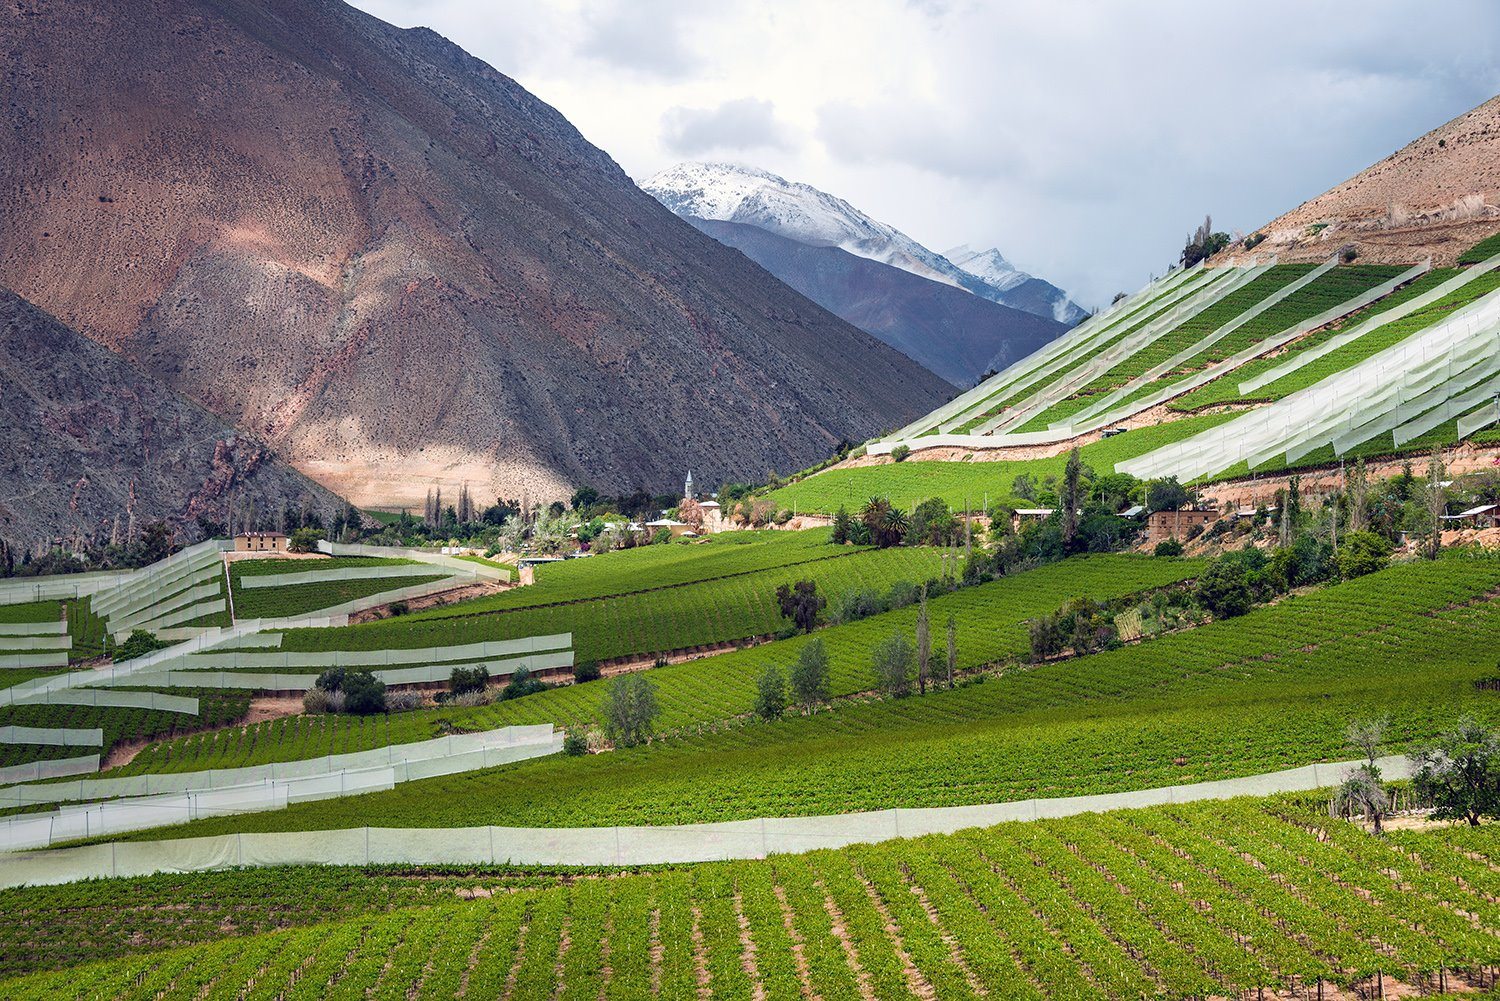
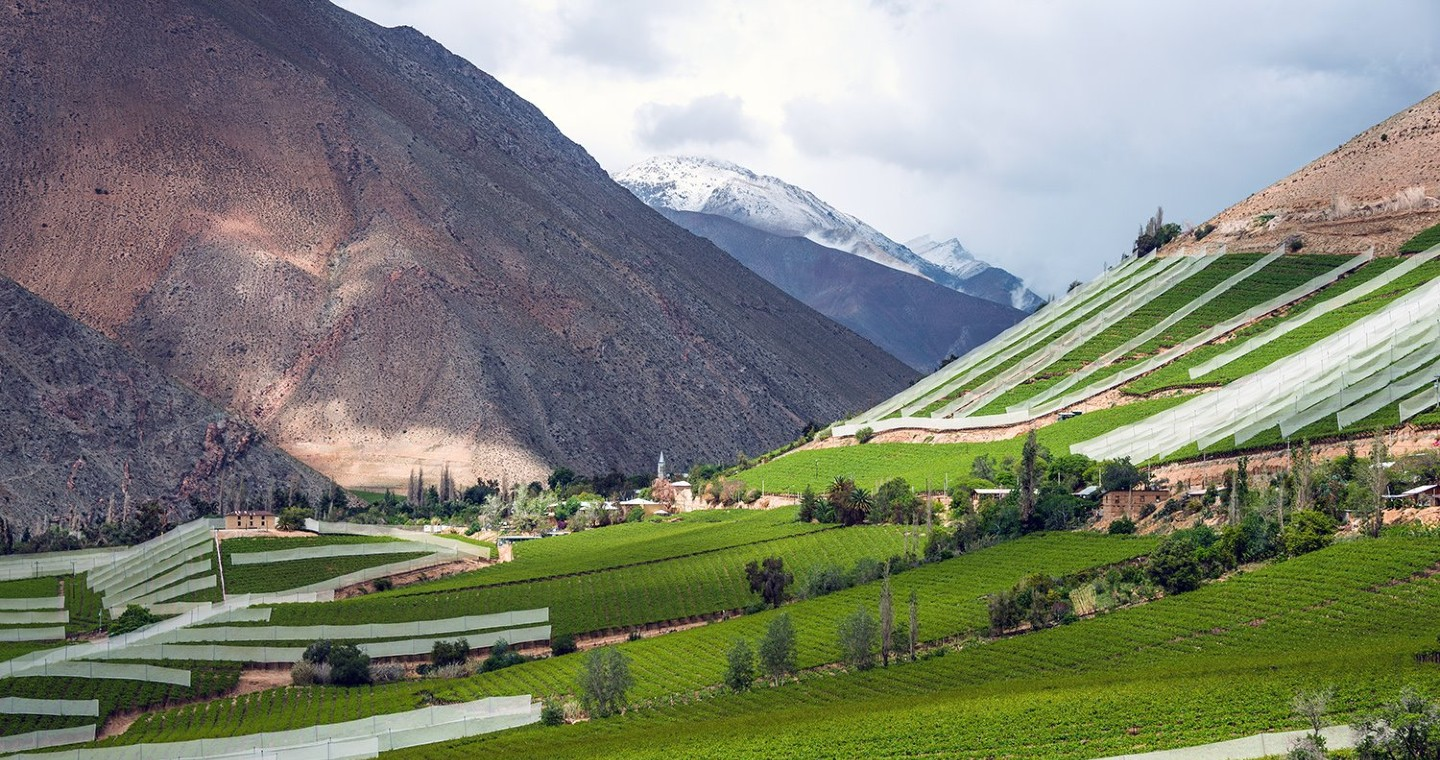
last commit

diff --git a/index.html b/index.html
@@ -9,14 +9,15 @@
     <link rel="stylesheet" href="https://stackpath.bootstrapcdn.com/bootstrap/4.5.2/css/bootstrap.min.css" integrity="sha384-JcKb8q3iqJ61gNV9KGb8thSsNjpSL0n8PARn9HuZOnIxN0hoP+VmmDGMN5t9UJ0Z" crossorigin="anonymous">
     <!-- LIBRERIA FONTAWESOME-->
     <script src="https://kit.fontawesome.com/af2ac33e66.js" crossorigin="anonymous"></script>
-    <!-- google fonts-->
+    <!-- google fonts ROBOTO-->
     <link rel="preconnect" href="https://fonts.gstatic.com">
-    <link href="https://fonts.googleapis.com/css2?family=Baloo+Tammudu+2:wght@400;600&display=swap" rel="stylesheet">
+    <link href="https://fonts.googleapis.com/css2?family=Roboto:wght@100;400&display=swap" rel="stylesheet">
     <!-- Style css -->
     <link rel="stylesheet" href="assets/css/style.css">
+    <!-- Favicon -->
+    <link rel="icon" href="assets/img/logo.png" type="image/png">
 
-
-    <title>Document</title>
+    <title>Viajes Chile</title>
 </head>
 
 <body>
@@ -30,29 +31,26 @@
             <div class="collapse navbar-collapse" id="navbarNav">
                 <ul class="navbar-nav ml-auto">
                     <li class="nav-item active">
-                        <a class="nav-link" href="#top">Inicio <span class="sr-only">(current)</span></a>
+                        <a class="nav-link carouse-row" href="#top">Inicio <span class="sr-only">(current)</span></a>
                     </li>
                     <li class="nav-item">
-                        <a class="nav-link" href="#about-us">Quienes Somos</a>
+                        <a class="nav-link carouse-row" href="#about-us">Quienes Somos</a>
                     </li>
                     <li class="nav-item">
-                        <a class="nav-link" href="#high-lights">Destacados</a>
+                        <a class="nav-link carouse-row" href="#high-lights">Destacados</a>
                     </li>
                     <li class="nav-item">
-                        <a class="nav-link" href="#contact_us">Contacto</a>
+                        <a class="nav-link carouse-row" href="#contact_us">Contacto</a>
                     </li>
 
                 </ul>
             </div>
         </div>
     </nav>
-
-
     <!--HEADER-->
-
-    <header id="top" class="container-fluid p-0 ">
+    <header id="top" class="container-fluid p-0 carousel-images ">
         <div id="carouselExampleControls" class="carousel slide" data-ride="carousel">
-            <div class="carousel-inner carousel-images">
+            <div class="carousel-inner ">
                 <div class="carousel-item w-100 active">
                     <img src="assets/img/img-1.jpg" class="d-block w-100" alt="...">
                 </div>
@@ -81,12 +79,9 @@
                 <span class="sr-only">Next</span>
             </a>
         </div>
-
     </header>
-
     <!--QUIENES SOMOS-->
-
-    <section id="about-us" class="container mt-5">
+    <section id="about-us" class="container mt-5 d-none d-md-none d-sm-none d-lg-block">
         <div class="row">
             <div class="col-12 border-bottom border-info mb-5">
                 <h1 class="text-center mb-3">¿Quiénes somos?</h1>
@@ -97,8 +92,6 @@
                 <div class="card border-0">
                     <div class="card-header bg-info text-center">
                         <i class="fas fa-plane fa-2x d-inline-block" tabindex="0" data-bs-toggle="tooltip" title="Disabled tooltip"></i>
-
-
                     </div>
                     <div class="card-body bg-black ">
                         <p class="card-text ">Lorem ipsum dolor sit amet consectetur adipisicing elit. Dolore at quasi incidunt quidem alias a aliquid. Nisi ad incidunt, modi quisquam ab ullam accusamus recusandae neque soluta suscipit facilis temporibus aut corporis doloribus,
@@ -129,118 +122,87 @@
                 </div>
             </div>
         </div>
-
-
     </section>
-
     <!--DESTACADOS  -->
-
     <section id="high-lights" class="container mt-5 mb-5 ">
         <div class="row ">
-            <div class="col-12 border-bottom border-info mb-5 ">
+            <div class="col-12  border-bottom border-info mb-5 ">
                 <h1 class="text-center mb-3 ">Destacados</h1>
             </div>
         </div>
-        <div class="card-deck ">
-            <div class="card bg-info ">
-                <img src="assets/img/card-img-1.jpg " alt=" ">
-                <div class="card-body ">
-                    <h5 class="card-text ">Lorem ipsum dolor sit amet.</h5>
-                    <p>Lorem, ipsum dolor sit amet consectetur adipisicing elit. Possimus earum voluptatibus saepe nihil porro soluta aperiam consectetur at sapiente, ullam nemo recusandae adipisci alias similique natus ab? Accusamus, culpa exercitationem?</p>
+        <div class="row">
+            <div class="card-deck">
+                <div class="card bg-info border-white">
+                    <img class="card-img-top" data-toggle="tooltip" data-placemente="top" title="Isla de Pascua" src="assets/img/card-img-1.jpg" alt="Card image cap">
+                    <div class="card-body">
+                        <h5 class="card-title">Lorem ipsum dolor sit amet.</h5>
+                        <p class="card-text">Lorem ipsum dolor sit amet consectetur adipisicing elit. Dolorum assumenda tempore quod modi aspernatur nam quaerat provident similique ipsam nesciunt.</p>
+                    </div>
                 </div>
-            </div>
-            <div class="card bg-info ">
-                <img src="assets/img/card-img-2.jpg " alt=" ">
-                <div class="card-body ">
-                    <h5 class="card-text ">Lorem ipsum dolor sit amet.</h5>
-                    <p>Lorem ipsum, dolor sit amet consectetur adipisicing elit. Sint laudantium nam ratione accusantium ad possimus, aliquam tenetur! Quis tempore vero inventore sed, animi veritatis sunt odio eveniet omnis unde ratione.</p>
+                <div class="card bg-info border-white">
+                    <img class="card-img-top" data-toggle="tooltip" data-placemente="top" title="Zona Austral de Chile" src="assets/img/card-img-2.jpg" alt="Card image cap">
+                    <div class="card-body">
+                        <h5 class="card-title">Lorem ipsum dolor sit amet.</h5>
+                        <p class="card-text">Lorem ipsum dolor sit amet consectetur, adipisicing elit. Maiores corrupti voluptatem quam, necessitatibus laudantium rerum ratione iusto autem porro cupiditate repellendus aliquid! Alias, aspernatur cupiditate.</p>
+                    </div>
                 </div>
-            </div>
-            <div class="card bg-info ">
-                <img src="assets/img/card-img-3.jpg " alt=" ">
-                <div class="card-body ">
-                    <h5 class="card-text ">Lorem ipsum dolor sit amet consectetur adipisicing elit. Maxime, voluptatum?.</h5>
-                    <p>Lorem ipsum dolor sit amet consectetur adipisicing elit. Nulla, accusamus voluptatem voluptate error eum exercitationem facere labore mollitia corporis ipsa, itaque cumque reiciendis, quae quis nihil voluptatum dignissimos nesciunt
-                        expedita.
-                    </p>
+                <div class="card bg-info border-white">
+                    <img class="card-img-top" data-toggle="tooltip" data-placemente="top" title="Torres del Paine" src="assets/img/card-img-3.jpg" alt="Card image cap">
+                    <div class="card-body">
+                        <h5 class="card-title">Lorem ipsum dolor sit amet consectetur adipisicing elit.</h5>
+                        <p class="card-text">Lorem ipsum dolor, sit amet consectetur adipisicing elit. Eos ratione nihil cumque tempora sapiente, architecto doloremque asperiores at nostrum mollitia sunt necessitatibus ipsa pariatur dolor quos nemo dignissimos dicta sequi?
+                        </p>
+                    </div>
                 </div>
-            </div>
-            <div class="card bg-info ">
-                <img src="assets/img/card-img-4.jpg " alt=" ">
-                <div class="card-body ">
-                    <h5 class="card-text ">Lorem ipsum dolor sit amet.</h5>
-                    <p>Lorem ipsum dolor sit amet consectetur adipisicing elit. Officia natus fugit omnis, exercitationem cum consequatur, adipisci reiciendis incidunt, mollitia possimus cupiditate necessitatibus inventore iure. Veniam accusamus vero ipsam
-                        a exercitationem!</p>
+                <div class="card bg-info border-white">
+                    <img class="card-img-top" data-toggle="tooltip" data-placemente="top" title="Desierto de Atacama" src="assets/img/card-img-4.jpg" alt="Card image cap">
+                    <div class="card-body">
+                        <h5 class="card-title">Lorem ipsum dolor sit amet.</h5>
+                        <p class="card-text">Lorem ipsum dolor sit amet consectetur, adipisicing elit. Cum maxime sunt sequi illo. Molestias reprehenderit libero voluptate eius omnis laboriosam.</p>
+                    </div>
                 </div>
-            </div>
 
-
-
+            </div>
         </div>
-
-
+        </div>
     </section>
-
     <!--CONTACTO-->
-
-    <section id="contact_us" class="container mt-5 mb-5 ">
-        <div class="row ">
-            <div class="col-12 border-bottom border-info mb-5 ">
-                <h1 class="text-center mb-3 ">Contacto</h1>
+    <section id="contact_us" class="container my-5">
+        <div class="row">
+            <div class="col-12 border-bottom border-info my-5">
+                <h1 class="text-center">Contacto</h1>
             </div>
         </div>
-        <div class="typeform-widget" data-url="https://form.typeform.com/to/XLaLWSJD?typeform-medium=embed-snippet" data-hide-headers="true" data-hide-footer="true" style="width: 100%; height: 500px;"></div>
-        <script>
-            (function() {
-                var qs, js, q, s, d = document,
-                    gi = d.getElementById,
-                    ce = d.createElement,
-                    gt = d.getElementsByTagName,
-                    id = "typef_orm",
-                    b = "https://embed.typeform.com/";
-                if (!gi.call(d, id)) {
-                    js = ce.call(d, "script");
-                    js.id = id;
-                    js.src = b + "embed.js";
-                    q = gt.call(d, "script")[0];
-                    q.parentNode.insertBefore(js, q)
-                }
-            })()
-        </script>
+        <div class="typeform-widget" data-url="https://form.typeform.com/to/XLaLWSJD?typeform-medium=embed-snippet" data-hide-headers="true" data-hide-footer="true" style="width: 100%; height: 500px;">
+        </div>
     </section>
-
     <!--FOOTER-->
-    <footer class="container-fluid py-3 text-center ">
-        <div class="row ">
-            <div class="col-6 ">
-                <h2>VIAJES CHILE</h2>
-            </div>
-            <div class="col-6 ">
-                <a href="https://www.github.com/" target="blank">
-                    <i class="fab fa-github-square fa-2x pl-3 "></i>
-                </a>
-                <a href="https://www.linkedin.com/" target="blank">
-                    <i class="fab fa-linkedin fa-2x pl-3 "></i>
-                </a>
-                <a href="https://twitter.com/?lang=es" target="blank">
-                    <i class="fab fa-twitter-square fa-2x pl-3 "></i>
-                </a>
-                <a href="https://www.facebook.com/" target="blank">
-                    <i class="fab fa-facebook-square fa-2x pl-3 "></i>
-                </a>
+    <footer class="bg-info">
+        <div class="container-fluid">
+            <div class="row text-center">
+                <div class="col text-center py-3">
+                    <a id="top-navbar" href="#top">
+                        <h2 class="m-0">VIAJES CHILE</h2>
+                    </a>
+                </div>
+                <div class="col text-center py-3">
+                    <a href="https://github.com/" target="blank" data-toggle="popover" data-trigger="hover" data-placement="top" data-content="GitHub"><i class="fab fa-github-square fa-2x pl-3 "></i></a>
+                    <a href="https://www.linkedin.com/" target="blank" data-toggle="popover" data-trigger="hover" data-placement="top" data-content="Linkedin"> <i class="fab fa-linkedin fa-2x pl-3 "></i></a>
+                    <a href="https://twitter.com/?lang=es" target="blank" data-toggle="popover" data-trigger="hover" data-placement="top" data-content="Twitter"> <i class="fab fa-twitter-square fa-2x pl-3 "></i></a>
+                    <a href="https://www.facebook.com/" target="blank" data-toggle="popover" data-trigger="hover" data-placement="top" data-content="Facebook"> <i class="fab fa-facebook-square fa-2x pl-3 "></i></a>
+
+                </div>
             </div>
         </div>
     </footer>
-
-    <!-- JQuery 3.3.1-->
-    <script src="https://code.jquery.com/jquery-3.3.1.js " integrity="sha256-2Kok7MbOyxpgUVvAk/HJ2jigOSYS2auK4Pfzbm7uH60=" crossorigin=" anonymous "></script>
+    <!-- JQuery 3.6.0-->
+    <script src="https://code.jquery.com/jquery-3.6.0.js" integrity="sha256-H+K7U5CnXl1h5ywQfKtSj8PCmoN9aaq30gDh27Xc0jk=" crossorigin="anonymous"></script>
     <!-- Popper 1.16.1-->
     <script src="https://cdn.jsdelivr.net/npm/popper.js@1.16.1/dist/umd/popper.min.js " integrity="sha384-9/reFTGAW83EW2RDu2S0VKaIzap3H66lZH81PoYlFhbGU+6BZp6G7niu735Sk7lN " crossorigin="anonymous "></script>
     <!-- Bootstrapt 4.5.2-->
     <script src="https://stackpath.bootstrapcdn.com/bootstrap/4.5.2/js/bootstrap.min.js " integrity="sha384-B4gt1jrGC7Jh4AgTPSdUtOBvfO8shuf57BaghqFfPlYxofvL8/KUEfYiJOMMV+rV " crossorigin="anonymous "></script>
     <!--Mi script-->
     <script src="assets/js/script.js "></script>
-
 </body>
 
 </html>

diff --git a/assets/js/script.js b/assets/js/script.js
@@ -1,13 +1,50 @@
+/* efecto smooth scroll para navbar y footer*/
+
 $(function() {
-    $('body a').click(function(e) {
+    $('nav a').click(function(e) {
         e.preventDefault(); //evitar el eventos del enlace normal
         var strAncla = $(this).attr('href'); //id del ancla
         $('body,html').stop(true, true).animate({
             scrollTop: $(strAncla).offset().top
-        }, 800);
+        }, 800); //fadetime
+    });
+    $('#top-navbar').click(function(e) {
+        e.preventDefault(); //evitar el eventos del enlace normal
+        var strAncla = $(this).attr('href'); //id del ancla
+        $('body,html').stop(true, true).animate({
+            scrollTop: $(strAncla).offset().top
+        }, 800); //fadetime
     });
 });
 
+/*tooltip*/
+
 $(function() {
-    $('[data-toggle="tooltip"]').tooltip()
+    $('[data-toggle="tooltip"]').tooltip();
+
+});
+
+/*popover para las redes sociales*/
+
+$(function() {
+    $('[data-toggle="popover"]').popover();
+});
+
+
+/* script de typeform*/
+
+$(function() {
+    var qs, js, q, s, d = document,
+        gi = d.getElementById,
+        ce = d.createElement,
+        gt = d.getElementsByTagName,
+        id = "typef_orm",
+        b = "https://embed.typeform.com/";
+    if (!gi.call(d, id)) {
+        js = ce.call(d, "script");
+        js.id = id;
+        js.src = b + "embed.js";
+        q = gt.call(d, "script")[0];
+        q.parentNode.insertBefore(js, q)
+    }
 })

diff --git a/assets/css/style.css b/assets/css/style.css
@@ -1,19 +1,46 @@
 body {
     background-color: #000000;
     color: #ffffff;
-    font-family: 'Baloo Tammudu 2', cursive;
-    margin: 0;
-    padding: 0;
+    margin-bottom: 0 !important;
+    font-family: 'Roboto', sans-serif;
 }
 
-.carousel-images {
-    height: 620px;
-}
-
-footer {
-    background-color: #1ea4ba;
+header img {
+    width: 100%;
+    height: 100%;
 }
 
 .bg-black {
     background-color: #000000;
+}
+
+footer h2 {
+    color: #ffffff;
+}
+
+footer i {
+    color: #ffffff;
+}
+
+.popover {
+    background-color: #ffffff99;
+    font-weight: bold;
+}
+
+.popover-body {
+    color: #534f0a;
+}
+
+
+/*sombra navbar*/
+
+nav a {
+    text-shadow: 0px 2px #00000090;
+}
+
+
+/* cambio de color tooltip*/
+
+.tooltip-inner {
+    background-color: #17a2b8;
 }
